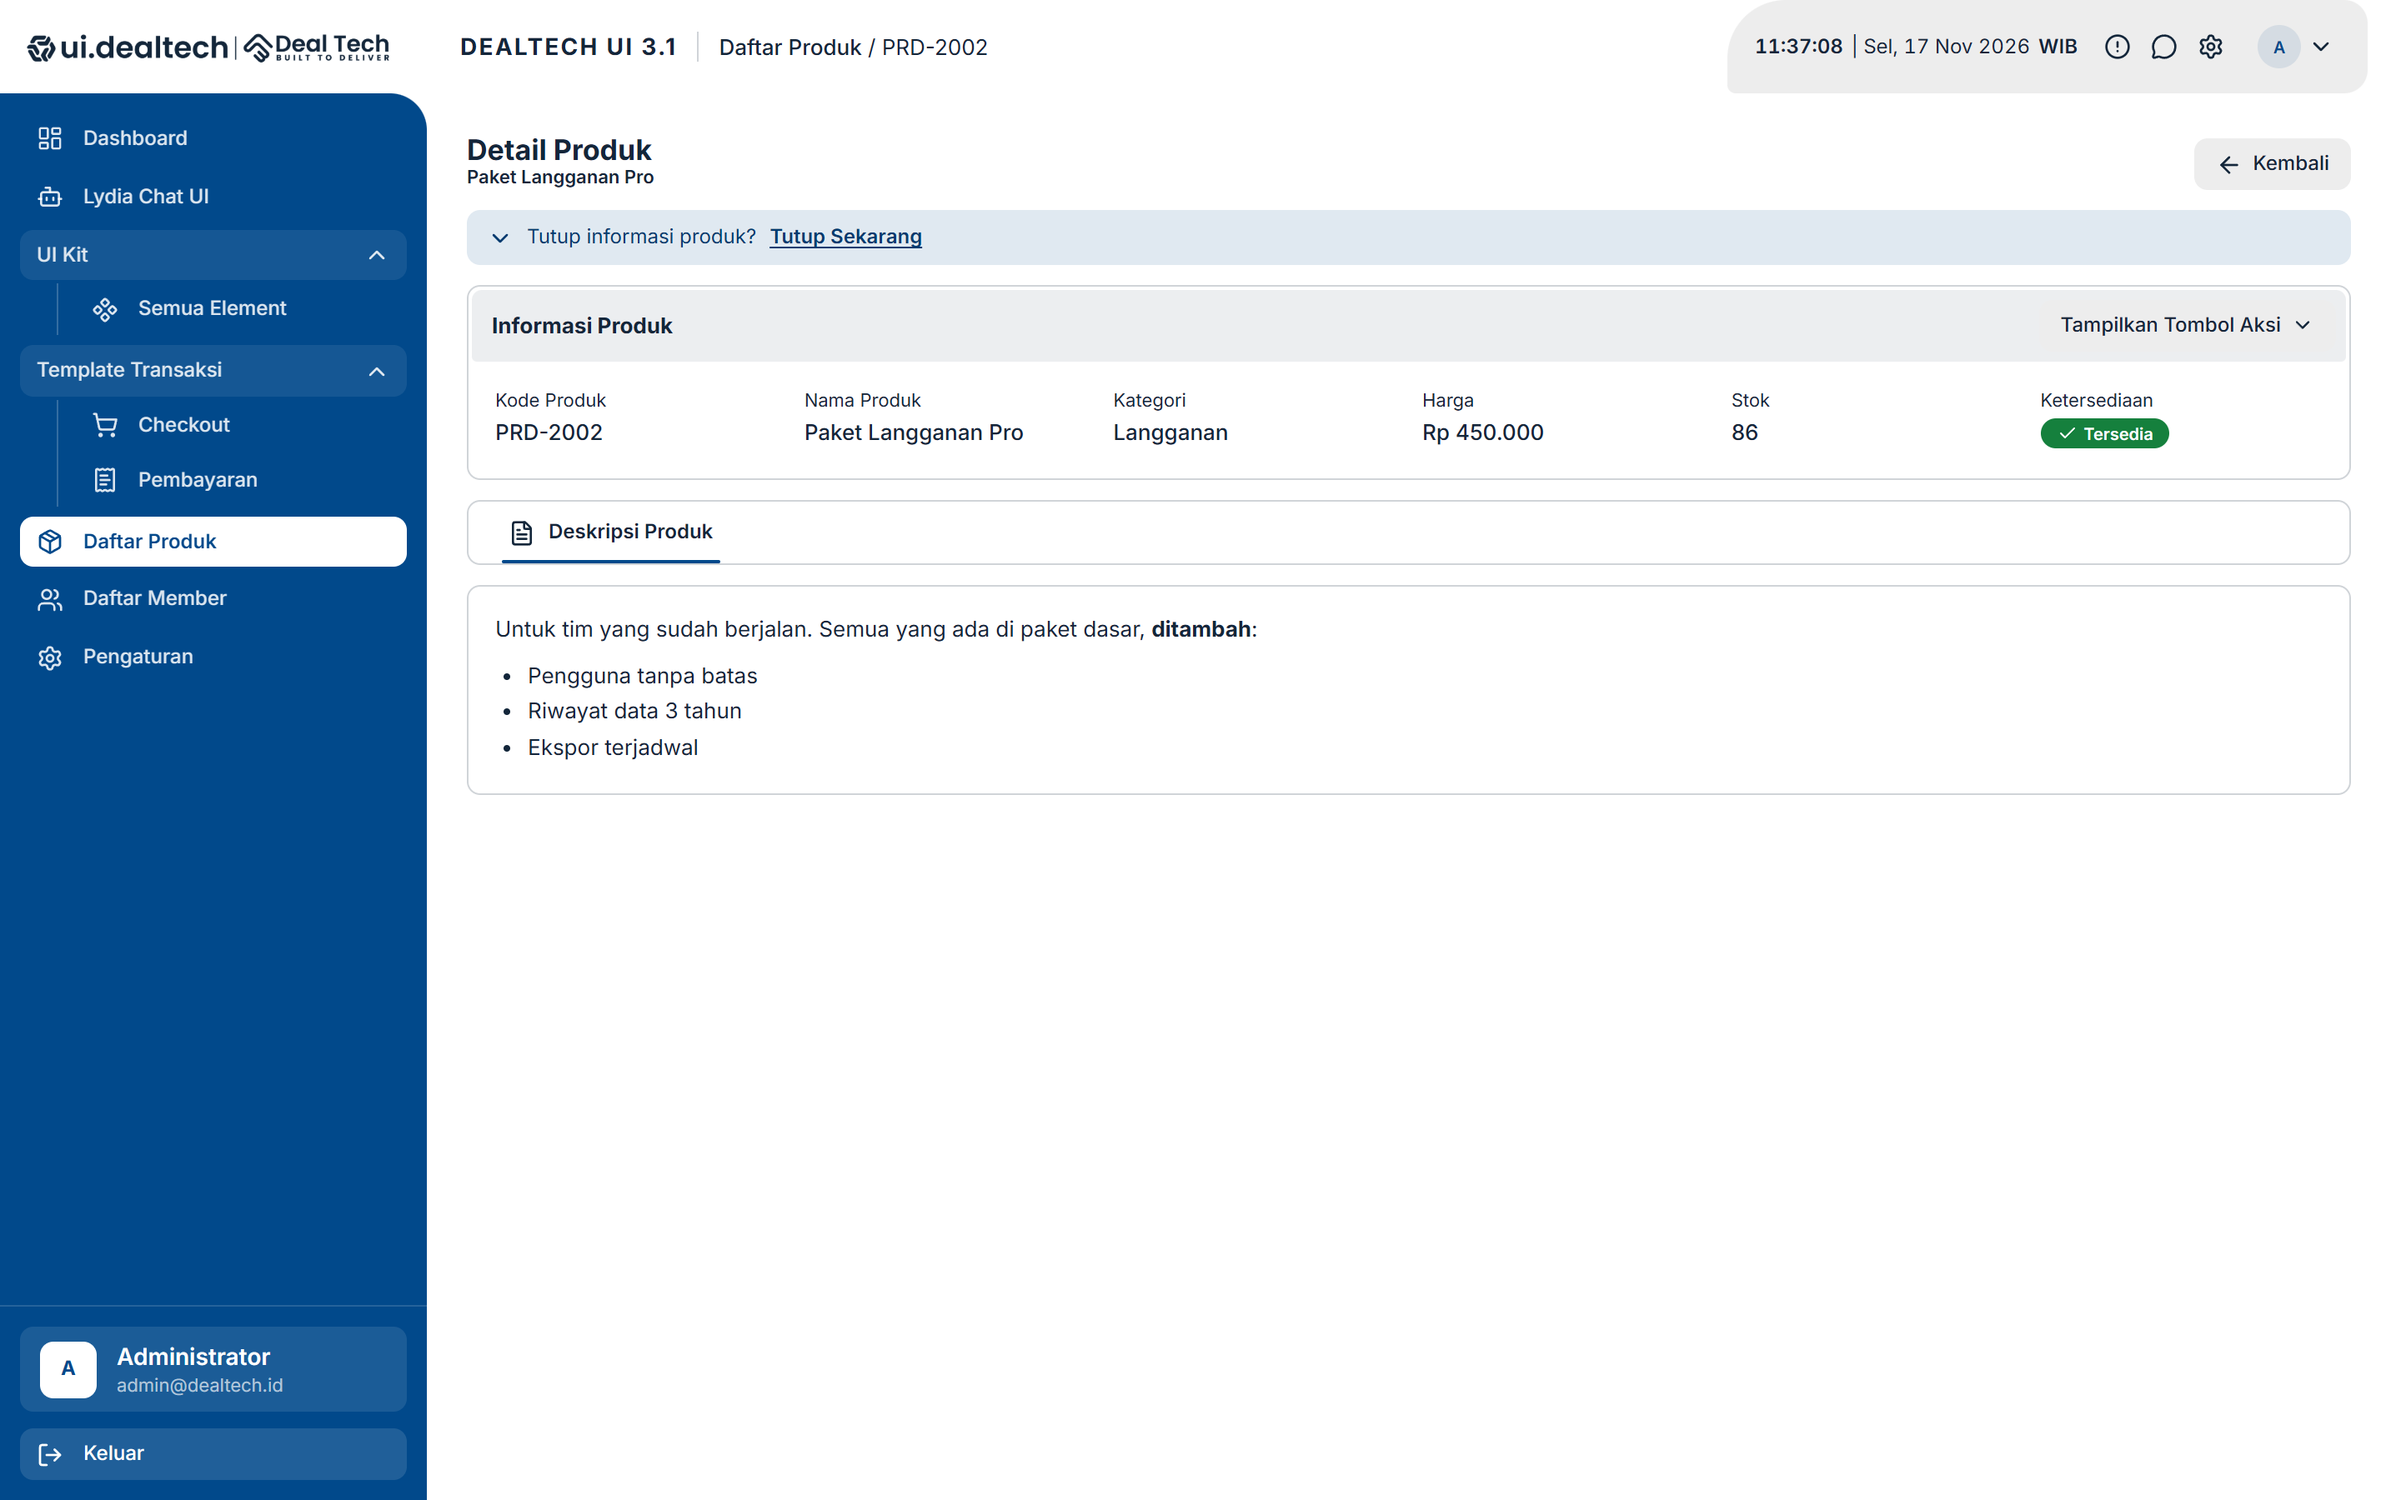
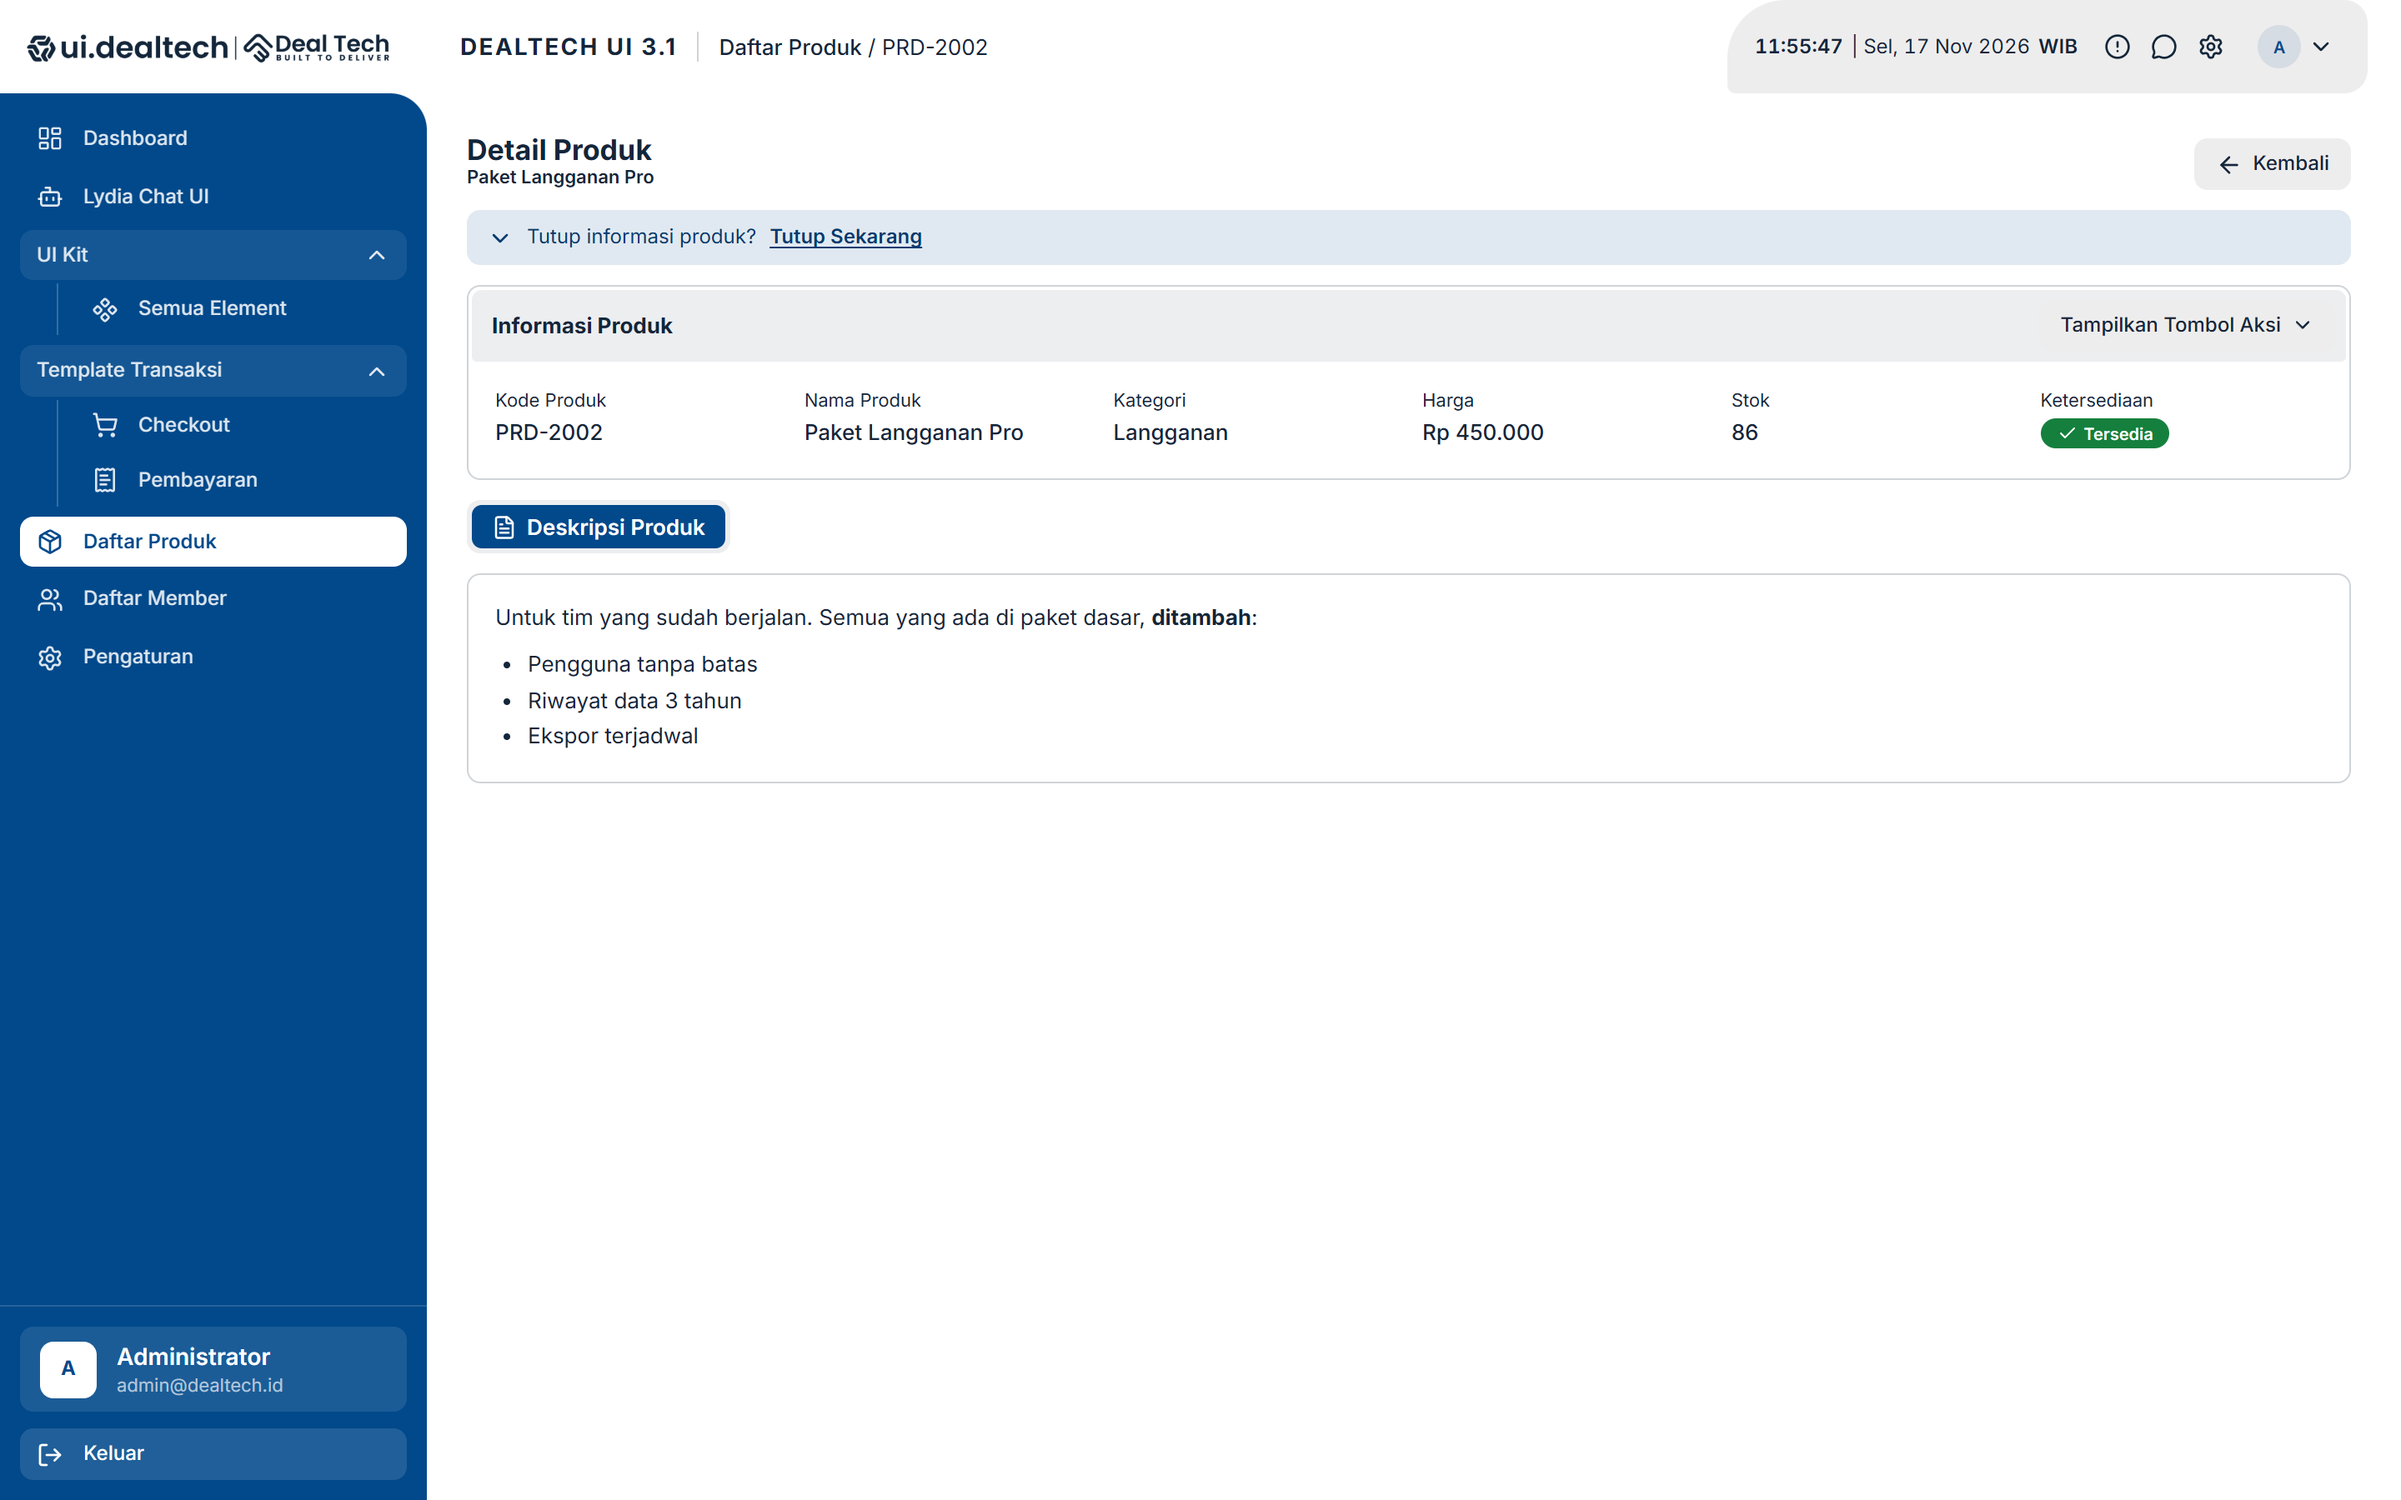
improve starter pages to use pill tab button like pos

Changed region(s): [[0.1875, 0.3111, 0.9688, 0.5289]]

diff --git a/templates/starter-v3.1/src/pages/pengaturan/PengaturanPage.tsx b/templates/starter-v3.1/src/pages/pengaturan/PengaturanPage.tsx
@@ -284,7 +284,7 @@ export default function PengaturanPage() {
     <div className="pengaturan-page space-y-6">
       <PageTitle title="Pengaturan" subtitle="Kelola informasi akun dan kata sandi Anda" />
 
-      <TabButton tabs={TAB} value={tab} onChange={setTab} />
+      <TabButton gaya="pil" tabs={TAB} value={tab} onChange={setTab} />
 
       {tab === 'system' && peranAdmin ? (
         <div className="space-y-4">

diff --git a/templates/starter-v3.1/src/pages/produk/ProdukDetailSkeleton.tsx b/templates/starter-v3.1/src/pages/produk/ProdukDetailSkeleton.tsx
@@ -80,7 +80,7 @@ export function ProdukDetailSkeleton() {
         </Keterangan>
       </Seksi>
 
-      <TabButton tabs={TAB} value="deskripsi" onChange={tanpaAksi} />
+      <TabButton gaya="pil" tabs={TAB} value="deskripsi" onChange={tanpaAksi} />
 
       <section className="app-section-card">
         <div className="app-section-body">

diff --git a/templates/starter-v3.1/src/pages/produk/ProdukDetailPage.tsx b/templates/starter-v3.1/src/pages/produk/ProdukDetailPage.tsx
@@ -164,6 +164,7 @@ export default function ProdukDetailPage() {
       ) : null}
 
       <TabButton
+        gaya="pil"
         tabs={[{ key: 'deskripsi', label: 'Deskripsi Produk', icon: FileText }]}
         value={tab}
         onChange={setTab}

diff --git a/CHANGELOG.md b/CHANGELOG.md
@@ -15,7 +15,7 @@ Starter baru di `templates/starter-v3.1`, dipasang lewat `dealtech-ui-v3.1` atau
 - Kepala `Modal` dan `Seksi` jadi bar abu setinggi bar cari tabel (42,8px, 2px dari tepi, sudut atas sejajar radius kartu); Esc menutup dropdown yang terbuka dulu, baru modalnya.
 - Isian setinggi tombol dan butir menu sidebar (`--app-control-h` = 30,8px); isian galat cukup berubah warna border.
 - Kartu statistik berbentuk segmen chevron yang saling mengunci, warna mengikuti kolom (`--app-stat-1` s.d. `--app-stat-5`), paling banyak lima per baris, plus prop `memuat`.
-- `TabButton` dan `SearchInput` punya gaya `pil`; `PageTitle` meratakan tombol ke bawah judul; animasi `TombolTuang` dua kali lebih cepat dan bisa difokuskan dari luar.
+- `TabButton` dan `SearchInput` punya gaya `pil`, dan tab di halaman Pengaturan serta detail produk kini memakai `gaya="pil"`; `PageTitle` meratakan tombol ke bawah judul; animasi `TombolTuang` dua kali lebih cepat dan bisa difokuskan dari luar.
 - Tambah element `seksi`: kartu `app-section-card` berkepala bar abu, judul saja, aksi di kanan. Halaman checkout dan detail produk memakainya.
 - Tambah element `bidang`: label, tanda wajib, hint, dan galat untuk kontrol tanpa label sendiri seperti `Select`.
 - Tambah element `konfirmasi-modal`: konfirmasi aksi berisiko dengan `TombolTuang`, peringatan, dan `kataKunci` (tombol baru aktif setelah pengguna mengetik, misalnya HAPUS).

diff --git a/templates/starter-v3.1/AGENTS.md b/templates/starter-v3.1/AGENTS.md
@@ -45,6 +45,10 @@ garis bawah**.
    `Bidang`, bukan `<span style={{ fontSize: ... }}>`.
 3. Jangan menambah `border-bottom` pada kepala kartu atau modal; pemisahnya
    sudah bar abu itu.
+4. **Tab memakai `TabButton gaya="pil"`.** Pakai `short` untuk label di layar
+   sempit, `count` untuk jumlah, dan `className="tab-button--rata"` untuk tab
+   selebar wadah. Gaya `garis` bawaan hanya untuk kebutuhan khusus. Contoh semua
+   varian ada di katalog element, grup TabButton.
 
 ```tsx
 import { Seksi } from '@/components/ui/seksi/Seksi';
